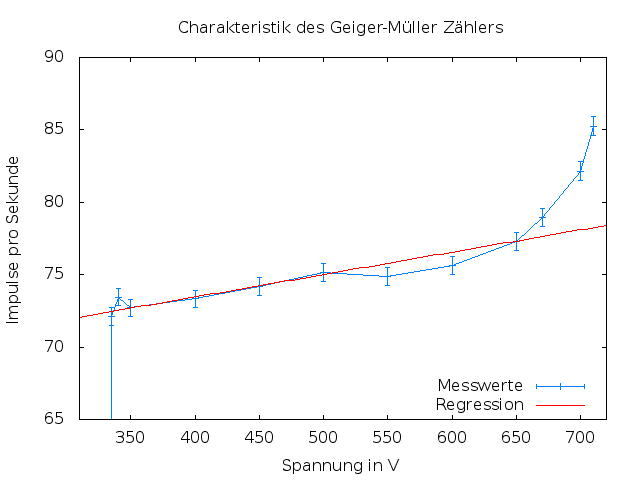
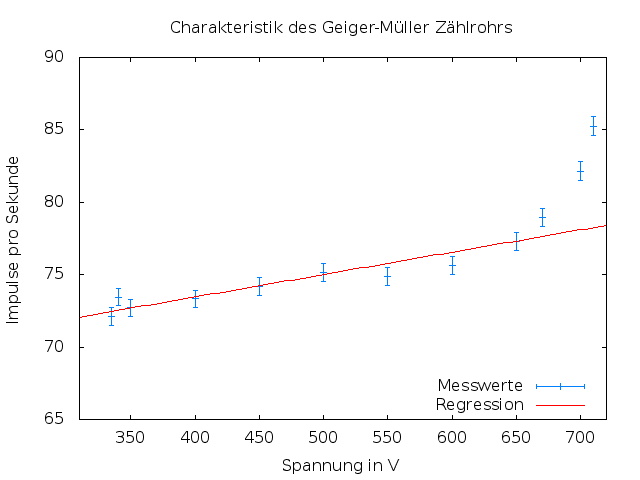
modified:   15.703 Geiger-Mueller/Messwerte.ods 	modified:   15.703 Geiger-Mueller/pics/charakteristik.png 	modified:   15.703 Geiger-Mueller/protokoll.tex 	modified:   16.500 Photoeffekt/protokoll.tex

Changed region(s): [[0.25, 0.0312, 0.8125, 0.0938]]

diff --git a/15.703 Geiger-Mueller/protokoll.tex b/15.703 Geiger-Mueller/protokoll.tex
@@ -63,9 +63,9 @@ Dimitrios Skodras\\	% Name Praktikumspartner B
 Das Geiger-Müller-Zählrohr ist ein Messgerät, mit dem ionisierende Strahlung nachgewiesen und deren Intensität bestimmt werden kann. Das Geiger-Müller-Zählrohr besteht aus einem Kathodenzylinder (Radius $r_k$) und einem darin axial verlaufenden Anodendraht (Radius $r_a$).
 \begin{figure}[htbp]
 \includegraphics[width=0.8\textwidth]{pics/zaehlrohr.jpg}
-\caption{Geiger-Müller-Zählrohr im Querschnitt}
+\caption{Geiger-Müller-Zählrohr im Querschnitt (der Versuchsanleitung entnommen)}
 \end{figure}
-Im Zylinder selbst herrscht ein Unterdruck und er ist mit einem dünnen Argon-Alkohol-Gasgemisch gefüllt. Legt man nur eine Spannung zwischen Draht und Gehäuse an, so entsteht ein Radialsymmetrisches elektrisches Feld mit der Feldstärke
+Im Zylinder selbst herrscht ein Unterdruck und er ist mit einem dünnen Argon-Alkohol-Gasgemisch gefüllt. Legt man nur eine Spannung zwischen Draht und Gehäuse an, so entsteht ein radialsymmetrisches elektrisches Feld mit der Feldstärke
 \begin{align}
 E(r)= \frac{U}{r\cdot \ln (r_k / r_a)}
 \label{eq_efeld}
@@ -80,16 +80,16 @@ Je nachdem, wie hoch die an das Zählrohr angelegte Spannung ist, verhält sich 
 
 \begin{figure}[h]
 \includegraphics[width=0.6\textwidth]{pics/charak.jpg}
-\caption{Charakteristik eines Zählrohrs für $\alpha$- und $\beta$-Strahlung}
+\caption{Charakteristik eines Zählrohrs für $\alpha$- und $\beta$-Strahlung (der Versuchsanleitung entnommen)}
 \end{figure}
 
 Ist die Spannung nur sehr gering, so rekombinieren die erzeugten Ionen mit den Elektronen, bevor sie Anode bzw. Kathode erreichen konnten. Es werden folglich nicht alle Ionisationsvorgänge registriert.
 
 Erhöht man die Spannung weiter, werden schließlich quasi alle ionisierten Teilchen eingefangen. Der kontinuierlich zwischen Anode und Kathode fließende Ionisationsstrom ist dann proportional zur Energie und zur Intensität der einfallenden Strahlung. Unter diesen Bedingungen, stellt das Gerät eine Vorstufe zum Zählrohr dar und wird als Ionisationskammer bezeichnet. Sie eignet sich zwar nur bei hohen Strahlungsintensitäten, ermöglicht dort jedoch eine Messung der Strahlungsintensität, da der fließende Strom proportional mit ihr wächst.
 
-Anschließend folgt ein Bereich, indem ionisierte Teilchen durch die Spannung so stark beschleunigt werden, dass sie ihrerseits andere Teilchen ionisieren können. Es entstehen sog. Townsend-Lawinen, deren Gesamtladung proportional zur Teilchenenergie ist, die die Strahlung abgegeben hat. Dadurch ist in diesem Bereich neben der Intensitätsmessung auch noch eine Energiemessung möglich. Man bezeichnet den Detektor in diesem Bereich daher auch als Proportionalitätszählrohr.
+Anschließend folgt ein Bereich, indem ionisierte Teilchen durch die Spannung so stark beschleunigt werden, dass sie ihrerseits andere Teilchen ionisieren können. Es entstehen sogenannte Townsend-Lawinen, deren Gesamtladung proportional zur Teilchenenergie ist, die die Strahlung abgegeben hat. Dadurch ist in diesem Bereich neben der Intensitätsmessung auch noch eine Energiemessung möglich. Man bezeichnet den Detektor in diesem Bereich daher auch als Proportionalitätszählrohr.
 
-Das eigentliche Geiger-Müller-Zählrohr arbeitet im sog. Auslösebereich. Dort entstehen in der primären Elektronenlawine UV-Photonen infolge der Anregung von Argon-Atomen durch Elektronenstöße. Da die Photonen ladungsneutral sind, breiten sie sich auch senkrecht zum elektrischen Feld aus und erzeugen weitere Elektronenlawinen im gesamten Zählrohr. Die dann detektierte Ladung hängt nicht mehr von der Primärionisation, sondern nur noch von der Betriebsspannung und des Zählrohrvolumens ab. Die freigewordene Ladung ist nun so groß, dass sie leicht nachgewiesen werden kann, es ist nun jedoch nur noch eine Intensitätsmessung möglich.
+Das eigentliche Geiger-Müller-Zählrohr arbeitet im sog. Auslösebereich. Dort entstehen in der primären Elektronenlawine UV-Photonen infolge der Anregung von Argon-Atomen durch Elektronenstöße. Da die Photonen ladungsneutral sind, breiten sie sich auch senkrecht zum elektrischen Feld aus und erzeugen weitere Elektronenlawinen im gesamten Zählrohr. Die dann detektierte Ladung hängt nicht mehr von der Primärionisation, sondern nur noch von der Betriebsspannung und dem Zählrohrvolumen ab. Die freigewordene Ladung ist nun so groß, dass sie leicht nachgewiesen werden kann, es ist nun jedoch nur noch eine Intensitätsmessung möglich.
 
 Erhöht man die Spannung weiter, so erzeugt jede Ionistation Kaskaden von Entladungen, durch die das Zählrohr nach kurzer Zeit zerstört wird.
 
@@ -102,24 +102,24 @@ Setzt man die gemessenen Werte nun in folgende Formel ein:
 T\approx \frac{N_1+ N_2 - N_{1,2}}{2\cdot N_1 N_2},
 \label{eq_totzeit}
 \end{align}
-so lässt sich die Totzeit den Zählrohrs errechnen.
+so lässt sich die Totzeit den Zählrohrs näherungsweise bestimmen.
 
 Während die Ionenwolke zum Mantel hin abwandert, steigt die Feldstärke wieder an und das Zählrohr kann weitere Teilchen registrieren. Solange das Feld jedoch noch nicht vollständig wiederhergestellt ist, haben folgende Primärimpulse eine geringere Intensität. Dieser Zeitraum $T_E$ wird daher Erholungszeit genannt.
 \begin{figure}[htbp]
 \includegraphics[width=0.8\textwidth]{pics/erholungszeit.jpg}
-\caption{Tot- und Erholungszeit eines Geiger-Müller-Zählrohrs in einem Oszilloskop}
+\caption{Tot- und Erholungszeit eines Geiger-Müller-Zählrohrs in einem Oszilloskop (der Versuchsanleitung entnommen)}
 \label{pic_totzeit}
 \end{figure}
 
 \subsection{Nachentladungen}
-Auch die auf die Mantelfläche treffenden Ionen können ihrerseits Hüllenelektronen ausschlagen, die weitere echoartige Kaskaden anregen. Diese sind höchst unerwünscht, da sie die Messung verfälschen und werden als Nachentladungen bezeichnet. Um sie zu minimieren wird dem Gas ein Alkoholanteil hinzugefügt, da die Ionisierten Argonatome mit ihrer Energie wiederum die Alkoholatome ionisieren, welche keine Nachentladungen auslösen, sondern mit der Energie zu Schwingungen angeregt werden.
+Auch die auf die Mantelfläche treffenden Ionen können ihrerseits Hüllenelektronen ausschlagen, die weitere echoartige Kaskaden anregen. Diese sind höchst unerwünscht, da sie die Messung verfälschen und werden als Nachentladungen bezeichnet. Um sie zu minimieren wird dem Gas ein Alkoholanteil hinzugefügt, da die ionisierten Argonatome mit ihrer Energie wiederum die Alkoholatome ionisieren, welche keine Nachentladungen auslösen, sondern mit der Energie zu Schwingungen angeregt werden.
 
 \subsection{Charakteristik}
 Trägt man für ein Geiger-Müller-Zählrohr die registrierte Teilchenzahl N bei konstanter Strahlungsintensität gegen die angelegte Spannung U auf, so erhält man seine sogenannte Charakteristik.
-Interessant ist insbesondere der Auslösebereich, der ein Plateau ausbildet. Bei einem Idealen Zählrohr ist die Plateausteigung Null, jedoch wird immer eine geringe Steigung messbar sein, da Nachentladungen nie völlig ausgeschlossen werden können.
+Interessant ist insbesondere der Auslösebereich, der ein Plateau ausbildet. Bei einem idealen Zählrohr ist die Plateausteigung Null, jedoch wird immer eine geringe Steigung messbar sein, da Nachentladungen nie völlig ausgeschlossen werden können.
 \begin{figure}[htbp]
 \includegraphics[width=0.8\textwidth]{pics/plateau.jpg}
-\caption{Plateau des Auslösebereichs}
+\caption{Plateau des Auslösebereichs (der Versuchsanleitung entnommen)}
 \end{figure}
 
 
@@ -134,14 +134,15 @@ Nachentladungen können sichtbar gemacht werden, indem man die Probe soweit entf
 Spannung des Zählrohrs auf ca 700V gestellt wird. Es werden nun Nachentladungen im Oszilloskop sichtbar, die qualitativ beschrieben
 werden können. Hieraus lässt sich grob die Totzeit ermitteln
 \begin{align}
-\bar{I}:= \frac{1}{\tau} \int_0^\tau \frac{U(t)}{R}dt \hspace{1cm} (\tau >> T)
+\bar{I}:= \frac{1}{\tau} \int_0^\tau \frac{U(t)}{R}dt. \hspace{1cm} (\tau >> T)
 \end{align}
-gemessen werden, der bei hohen Zählraten auftritt. Aus I lässt sich bei bekannter Impulsrate, die pro eindringendes Teilchen vom Zählrohr freigesetzte Ladungsmenge berechnen. Gemäß der Definition des Stromes als die pro Zeitintervall $\Delta t$ transportierte Ladungsmenge $\Delta Q$ gilt:
+Aus I lässt sich bei bekannter Impulsrate, die pro eindringendes Teilchen vom Zählrohr freigesetzte Ladungsmenge berechnen. Gemäß der Definition des Stromes als die pro Zeitintervall $\Delta t$ transportierte Ladungsmenge $\Delta Q$ gilt:
 \begin{align}
 \bar{I} = \frac{\Delta Q}{\Delta t} Z
+\label{eq_ladung}
 \end{align}
 wenn Z Teilchen in der Zeit $\Delta t$ registriert wurden.
-$\Delta Q$ hängt von der Zählrohrspannung U ab. Es daher zweckmäßig, $\Delta Q$ in Abhängigkeit von U zu untersuchen.
+$\Delta Q$ hängt von der Zählrohrspannung U ab. Es ist daher zweckmäßig, $\Delta Q$ in Abhängigkeit von U zu untersuchen.
 
 
 \section{Auswertung}
@@ -167,8 +168,8 @@ Fehler von Größen, die von mehreren fehlerbehafteten Größen abhängig sind e
 \end{formel}
 
 \subsection{Charakteristik des Geiger-Müller-Zählrohrs}
-Die benutzte Strahlungsquelle ist das Thallium-Isotop $^{204}$Th und wird für das Erstellen der Zählrohrstatisktik verwandt. Bei
-verschiedenen Spannungen $U$ ergeben sich $N$ gemessene Impulse, sowie ein Strom $I$. In Tabelle \ref{tab_charakteristik} sind diese
+Die benutzte Strahlungsquelle ist das Thallium-Isotop $^{204}$Tl und wird für das Erstellen der Zählrohrstatisktik verwandt. Bei
+verschiedenen Spannungen $U$ ergeben sich $N$ gemessene Impulse, sowie ein Zählrohrstrom $I$. In Tabelle \ref{tab_charakteristik} sind diese
 Größen aufgeführt.
 
 \begin{table}[H]
@@ -194,16 +195,22 @@ Größen aufgeführt.
 \label{tab_charakteristik}
  \end{table}
 
-Bei Betrachtung der Werte, kann man ein gesättigtes Verhalten der Impulse bei dem Spannungsbereich von 335 V und 670 V feststellen. In
-Abbildung \ref{pic_plateau} wird eine Gerade mittels GNUplot gefittet, sodass die nicht verhinderbare Steigung des Plateaus ermittelt
+Bei Betrachtung der Werte, kann man ein Sättigungsverhalten der Impulse bei dem Spannungsbereich von 335 V und 670 V feststellen. In
+Abbildung \ref{pic_plateau} wird die Gerade \eqref{eq_charak} mittels GNUplot gefittet, sodass die nicht verhinderbare Steigung des Plateaus ermittelt
 werden kann.
+
+\begin{align}
+ N = a\cdot U + b
+ \label{eq_charak}
+\end{align}
+
 
 \begin{figure}[H]
  \includegraphics[width=0.8\textwidth]{pics/charakteristik.png}
  \caption{Charakteristik des Geiger-Müller-Zählrohrs}
  \label{pic_plateau}
 \end{figure}
-Besagte Plateausteigung beträgt somit $a$ = (1,546 $\pm$ 0,192)\%/100V.
+Besagte Plateausteigung beträgt somit $a$ = (154,6 $\pm$ 19,2)\%/100V.
 
 \subsection{Bestimmung der Totzeit mittels Oszilloskop}
 Auf einem Oszilloskop werden die gemessenen Impulse als Wellenberge entsprechend Abbildung \ref{pic_totzeit} dargestellt. Ab einer
@@ -212,7 +219,7 @@ Ablenkspannung von etwa 50 $\mu$s/cm wird der Abstand der Peaks vom einfallenden
 $b$ = 2,5 cm abgeschätzt, was zu einer groben Näherung der Totzeit mit $T$ = 125 $\mu$s führt.
 
 \subsection{Bestimmung der Totzeit mittels Zwei-Quellen-Methode}
-Wie in Abschnitt \ref{sec_totzeit} beschrieben, wird die 2-Quellen-Methode durchgeführt.
+Wie in Abschnitt \ref{sec_totzeit} beschrieben, wird die 2-Quellen-Methode bei einer Spannung $U$ = 700 V durchgeführt.
 
 \begin{table}[H]
  \begin{tabular}{c|c|c|c}
@@ -231,23 +238,52 @@ Mit den Werten aus Tabelle \ref{tab_2quellen} lässt sich mittels Gleichung \eqr
 sich aus Gleichung \eqref{eq_gauss}.
 
 \begin{align}
- T = (297,7 \pm 50,7) \mu s
+ T = (297,6 \pm 50,7) \mu s
 \end{align}
 
 \subsection{Messung freigesetzter Ladungsmenge}
 Ein ins Geiger-Müller-Zählrohr eintretende Teilchen sorgt bei hohen Spannunge wie in \ref{sec_spannungsbereiche} beschrieben, für sehr
 viele Ladungen, die auf den Anodendraht treffen. Das hat einen Stromfluss zufolge, welcher in Tabelle \ref{tab_charakteristik}
-aufgeführt ist. Die Anzahl an Ladungsträgern errechnet sich aus Gleichung \eqref{eq_ladung} und ist in Abbildung \ref{pic_ladung} zu
-sehen.
+aufgeführt ist. Die Anzahl an Ladungsträgern errechnet sich aus Gleichung \eqref{eq_ladung} und ist in Tabelle \ref{tab_ladungsmenge}
+in Abhängigkeit der Stromstärke gezeigt. Via GNUplot wird die Gleichung
+\begin{align}
+ \frac{Q}{e} = c\cdot U + d
+\end{align}
+gefittet. In Abbildung \ref{pic_ladung} sind die Ergebnisse zu sehen.
+
+\begin{table}[H]
+\begin{tabular}{c|c|c|c}
+$U$ in V & $Z$ in 1/s & $I$ in $\mu$A & $Q$ in 10$^{10}\,e$\\
+\hline
+332	&0,57&	0,000&	0,000\\
+334&	29,02&	0,080&	1,721\\
+335&	72,13&	0,080&	0,692\\
+340&	73,46&	0,080&	0,680\\
+350&	72,72&	0,090&	0,773\\
+400&	73,34&	0,100&	0,851\\
+450&	74,17&	0,130&	1,094\\
+500&	75,15&	0,205&	1,703\\
+550&	74,87&	0,250&	2,084\\
+600&	75,63&	0,290&	2,394\\
+650&	77,30&	0,320&	2,584\\
+670&	78,95&	0,325&	2,570\\
+700&	82,15&	0,400&	3,040\\
+710&	85,25&	0,400&	2,929 \\
+
+\end{tabular}
+\caption{freigesetzte Ladung $Q$ bei verschiedenen Spannungen}
+\label{tab_ladungsmenge}
+\end{table}
 
 \begin{figure}[H]
  \includegraphics[width=0.8\textwidth]{pics/ladungen.png}
  \caption{durch einfallende Teilchen freigesetzte Ladung bei verschiedenen Spannungen}
  \label{pic_ladung}
 \end{figure}
+Der Regressionsfaktor wird mit $d = (6,03 \pm 0,70)\cdot 10^{9}$ Ladungen/100V
 
 \section{Diskussion}
-Das Plateau in der Charakteristik des Geiger-Müller-Zählrohrs ist mit einer Steigung von etwa 1,5\%/100V durchaus gut feststellbar
+Das Plateau in der Charakteristik des Geiger-Müller-Zählrohrs ist mit einer Steigung von etwa 155\%/100V durchaus gut feststellbar
 und entspricht den Erwartungen. Zur besseren Abstimmung der Grenzen sind an den Randwerten mehrere Messungen durchgeführt worden.
 
 Die Messungen zur Totzeit beider Methoden sind gut miteinander vergleichbar. Der Wert des Oszilloskops beläuft sich auf

diff --git a/16.500 Photoeffekt/protokoll.tex b/16.500 Photoeffekt/protokoll.tex
@@ -61,7 +61,7 @@ Dimitrios Skodras\\					% Name Praktikumspartner B
 \subsection{Grundlagen zum Photoeffekt}
 Der Photoeffekt, oder auch lichtelektrischer Effekt, ist ein Phänomen, bei welchem Photonen Elektronen aus Metalloberflächen herauslösen.
 Das Wellenmodell hat lange Zeit das Wesen des Lichts gut beschreiben können, doch hieran scheitert es. Albert Einstein konnte 1905 die
-Problematik durch die Zuweisung korpuskularer Eigenschaften an die Lichtquanten lösen. In Abbildung \ref{pic_photo} ist dies stilistisch gezeigt. Völlig korrekt wird sie durch Berechnungen aus
+Problematik durch die Zuweisung korpuskularer Eigenschaften an die Lichtquanten lösen. Völlig korrekt wird sie durch Berechnungen aus
 der Quantenelektrodynamik beschrieben, jedoch reicht die Betrachtung des Teilchenmodells für die Zwecke dieses Versuchs völlig aus.
 
 \begin{figure}[H]
@@ -70,21 +70,27 @@ der Quantenelektrodynamik beschrieben, jedoch reicht die Betrachtung des Teilche
  \label{pic_photo}
 \end{figure}
 
-Hierbei trifft ein Photon der Energie $\hbar\omega$ auf das Metall und löst ein Elektron $e^-$ mit einer Bindungsenergie $A_k$ heraus
-und überträgt den Überschuss in Form von kinetischer Energie
+In Abbildung \ref{pic_photo} ist die Anordnung zum Photoeffekt stilistisch gezeigt. Hierbei trifft ein Photon der Energie $\hbar\omega$ 
+auf das Metall und löst ein Elektron $e^-$ mit einer Bindungsenergie $A_k$ heraus und überträgt den Überschuss in Form von kinetischer 
+Energie
 
 \begin{align}
  \hbar\omega = h\nu = E_{kin} + A_k.
  \label{eq_photo}
 \end{align}
 
-Aus den Experimenten zum Photoeffekt haben sich folgende Gesetzmäßigkeiten herauskristallisiert:
+Aus den Experimenten zum Photoeffekt sind Gesetzmäßigkeiten entdeckt worden, die mit dem Korpuskularmodell erklärbar wären
 
 \begin{enumerate}
  \item Es existiert eine Minimalfrequenz $\nu_{min}$, ab der der Photoeffekt überhaupt auftritt.
  \item Die Energie der Photoelektronen ist proportional zur Frequenz der Photonen.
  \item Die Zahl der herausgelösten Elektronen ist proportional zur Lichtintensität.
 \end{enumerate}
+
+Mit dem Wellenmodell zwar erklärbar, aber im Widerspruch zu experimentellen Befunden sind die aufgeführten Regeln. Licht mit Frequenzen
+unterhalb von $\nu_{min}$ könnten Resonanzeffekte am Elektron erzielen und somit ihre Schwingungsamplitude soweit erhöhen, dass sie
+die Austrittsarbeit überwinden könnten. Daher müsste auch die Lichtintensität die kinetische Energie der Photoelektronen bestimmen. Und
+nur bei Resonanzeffekten könnten Lichtwellen unabhängig von ihrer Intensität Elektronen herauslösen.
 
 \subsection{Die Gegenfeldmethode}
 Da das Picoamperemeter lediglich feststellen kann, ob ein Elektron eintrifft, aber nichts über die Energie aussagen kann, wird ein
@@ -110,23 +116,20 @@ Voraussetzungen kann man annehmen, dass der Photostrom $I_{Ph}$ parabolisch mit 
 \section{Durchführung}
 \begin{figure}[H]
  \includegraphics[width=\textwidth]{pics/Aufbau.png}
- \caption{Schematischer Aufbau der benutzten Apparatur}
+ \caption{Schematischer Aufbau der benutzten Apparatur (der Versuchsanleitung entnommen)}
  \label{pic_aufbau}
 \end{figure}
 
 In Abbildung \ref{pic_aufbau} ist der Versuchsaufbau dargestellt. Das Licht der Quecksilberlampe wird durch eine Kondensorlinse gebündelt,
 trifft auf eine Spaltblende und wird von der Abbildungslinse auf das Geradsichtprisma fokussiert. Das Prisma sorgt für eine räumliche
 Aufteilung der einzelnen Spektrallinien, welche eine Photokathode bestrahlen, die auf einem schwenkbaren Arm befestigt ist. Somit wird
-Die Photokathode immer mit monochromatischem Licht beleuchtet. 
+die Photokathode immer mit monochromatischem Licht beleuchtet. 
 
 Für vier Spektrallinien wird der Photostrom in Abhängigkeit der Bremsspannung gemessen, welche in einem Bereich von -2V $\leq \,U \, \leq 2$V
 liegt. Für die Wellenlänge $\lambda$ = 438,8 nm wird zusätzlich der Bereich von -20V $\leq \,U \, \leq$ 20V gegen den Photostrom gemessen.
 
 
 \section{Auswertung}
-
-
-
 Um die $I_{pk} \propto U^2$
 Gesetzmäßigkeit nachzuweisen, wird die Wurzel des Stroms gegen die Spannung aufgetragen.
 
